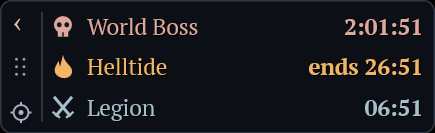
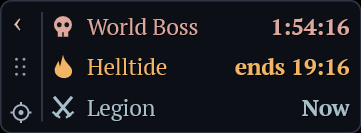
Allow compact panel widths without clipping text

diff --git a/tests/core_tests.cpp b/tests/core_tests.cpp
@@ -30,11 +30,12 @@ int main() {
  test("Retry After and duplicate suppression",[]{Coordinator c;c.activate(100,true);CHECK(c.takeDue(100,true)==7);CHECK(c.takeDue(100,true)==0);c.complete(Kind::Boss,100,false,600);CHECK(c.takeDue(699,true)==0);CHECK(c.takeDue(700,true)==1);});
  test("clock jump schedules one reconciliation",[]{Coordinator c;CHECK(!c.observeClock(100,1000));CHECK(!c.observeClock(101,2000));CHECK(c.observeClock(701,3000));CHECK(c.takeDue(701,true)==7);for(int i=0;i<3;++i)c.complete(Kind(i),701,true);CHECK(!c.observeClock(702,4000));CHECK(c.takeDue(702,true)==0);});
  test("clock rewind preserves elapsed retry wait",[]{Coordinator c;c.observeClock(10000,1000);c.activate(10000,true);c.takeDue(10000,true);for(int i=0;i<3;++i)c.complete(Kind(i),10000,false);CHECK(c.observeClock(6401,2000));CHECK(c.takeDue(6459,true)==0);CHECK(c.takeDue(6460,true)==7);});
- test("settings clamp and preserve positive placement",[]{auto p=normalize({100,1,-10,-100,-100,false,true});CHECK(p.font==22&&p.width>=350&&p.opacity==10&&p.x==0&&p.y==0&&p.registered);});
+ test("settings clamp and preserve positive placement",[]{auto p=normalize({100,1,-10,-100,-100,false,true});CHECK(p.font==22&&p.width>=300&&p.width<350&&p.opacity==10&&p.x==0&&p.y==0&&p.registered);});
  test("placement supports negative monitor origin",[]{auto b=place({-1920,0,1920,1080},270,82,1900,1060);CHECK(b.x==-270&&b.y==998&&b.width==270);});
  test("startup never recreates deleted entry",[]{CHECK(startupAction(false,false,false)==StartupAction::Create);CHECK(startupAction(true,false,false)==StartupAction::None);CHECK(startupAction(true,true,false)==StartupAction::Update);CHECK(startupAction(true,true,true)==StartupAction::None);});
- test("layout remains usable at large font and collapse",[]{auto p=normalize({22,270,85});auto l=layout(p,false);CHECK(l.width>=350&&l.height>=100);p.collapsed=true;CHECK(layout(p,false).width==28);CHECK(hitTest(p,false,10,10)==Hit::Collapse);});
+ test("layout remains usable at large font and collapse",[]{auto p=normalize({22,270,85});auto l=layout(p,false);CHECK(l.width>=300&&l.height>=100);p.collapsed=true;CHECK(layout(p,false).width==28);CHECK(hitTest(p,false,10,10)==Hit::Collapse);});
  test("hit testing only rail and settings controls",[]{Preferences p;CHECK(hitTest(p,false,100,40)==Hit::None);CHECK(hitTest(p,false,10,10)==Hit::Collapse);CHECK(hitTest(p,false,10,38)==Hit::Drag);CHECK(hitTest(p,false,10,70)==Hit::Settings);});
- test("larger text expands both label and countdown columns",[]{auto l=layout({22,270,85},false);CHECK(l.timeWidth>=175&&l.labelWidth>=120);CHECK(58+l.labelWidth+8+l.timeWidth+8<=l.width);});
+ test("larger text expands both label and countdown columns",[]{auto l=layout({22,270,85},false);CHECK(l.timeWidth>=125&&l.labelWidth>=110);CHECK(58+l.labelWidth+8+l.timeWidth+8<=l.width);});
+ test("width can shrink to compact text limits and still be widened",[]{auto p=normalize({15,1,75});CHECK(p.width>=235&&p.width<=245);CHECK(normalize({15,255,75}).width==255);CHECK(normalize({15,290,75}).width==290);CHECK(layout(p,true).width>=320);for(int size=11;size<=22;++size){auto l=layout({size,1,75},false);CHECK(l.labelWidth>0&&l.timeWidth>0);CHECK(58+l.labelWidth+8+l.timeWidth+8==l.width);}});
  std::cout<<passed<<" passed, "<<failed<<" failed\n";return failed?1:0;
 }

diff --git a/tests/render_tests.cpp b/tests/render_tests.cpp
@@ -23,15 +23,16 @@ int main(){
   font->Release();family->Release();collection->Release();format->Release();
  }
  for(int size=11;size<=22;++size){
-  auto p=normalize({size,270,10});auto l=layout(p,false);IDWriteTextFormat* f{};
+  auto p=normalize({size,1,10});auto l=layout(p,false);IDWriteTextFormat* f{};
   REQUIRE(SUCCEEDED(r.createTextFormat(static_cast<float>(size),true,&f)));
   f->SetWordWrapping(DWRITE_WORD_WRAPPING_NO_WRAP);
-  for(auto s:{L"ends ~55:00",L"~3:30:00",L"World Boss"}){
-   IDWriteTextFormat* actualFormat{};REQUIRE(SUCCEEDED(r.createTextFormat(static_cast<float>(size),s[0]!=L'W',&actualFormat)));
+  for(auto s:{L"ends ~55:00",L"ends ~88:88",L"ends ~00:00",L"~23:59:59",L"~Now",L"in ~05:00",L"World Boss",L"Helltide",L"Legion"}){
+   bool label=s[0]==L'W'||s[0]==L'H'||s[0]==L'L';
+   IDWriteTextFormat* actualFormat{};REQUIRE(SUCCEEDED(r.createTextFormat(static_cast<float>(size),!label,&actualFormat)));
    IDWriteTextLayout* text{};REQUIRE(SUCCEEDED(factory->CreateTextLayout(s,static_cast<UINT32>(wcslen(s)),actualFormat,1000,1000,&text)));
-   DWRITE_TEXT_METRICS m{};REQUIRE(SUCCEEDED(text->GetMetrics(&m)));int available=s[0]==L'W'?l.labelWidth:l.timeWidth;
-   if(m.widthIncludingTrailingWhitespace>available)std::wcerr<<L"Clipped at "<<size<<L" px: "<<s<<L" needs "<<m.widthIncludingTrailingWhitespace<<L", has "<<available<<'\n';
-   REQUIRE(m.widthIncludingTrailingWhitespace<=available);text->Release();actualFormat->Release();
+   DWRITE_TEXT_METRICS m{};REQUIRE(SUCCEEDED(text->GetMetrics(&m)));int available=label?l.labelWidth:l.timeWidth;
+   if(m.widthIncludingTrailingWhitespace+1>available)std::wcerr<<L"Clipped at "<<size<<L" px: "<<s<<L" needs "<<m.widthIncludingTrailingWhitespace+1<<L", has "<<available<<'\n';
+   REQUIRE(m.widthIncludingTrailingWhitespace+1<=available);text->Release();actualFormat->Release();
   }
   f->Release();std::array<Record,3> records{};
   REQUIRE(r.draw(hwnd,p,false,records,1790366400,1.f,{0,0,l.width,l.height},L"Offline estimates"));
@@ -47,5 +48,5 @@ int main(){
  auto backgroundAlpha=bytes[54+(15*270+140)*4+3];REQUIRE(maxAlpha>=250&&backgroundAlpha>=20&&backgroundAlpha<=32);
  std::filesystem::remove(path);
  REQUIRE(!IsWindowVisible(hwnd));REQUIRE(GetForegroundWindow()==foreground);DestroyWindow(hwnd);
- std::cout<<"PASS renderer: embedded PT Serif regular/bold without fallback, 12 font sizes, text metrics, transparent background with opaque text, resource recreation, hidden/no-activate\n";
+ std::cout<<"PASS renderer: embedded PT Serif regular/bold without fallback, compact minimum widths at 12 font sizes, text metrics, transparent background with opaque text, resource recreation, hidden/no-activate\n";
 }

diff --git a/src/core.cpp b/src/core.cpp
@@ -145,10 +145,12 @@ void Coordinator::complete(Kind k,Time now,bool success,Time retryAfter) {
 Time Coordinator::nextWake(Time now) const {
  Time due=Never;for(int i=0;i<3;++i){if(!requests[i].busy)due=std::min(due,requests[i].due);due=std::min(due,boundaries_[i]);}return due==Never?Never:std::max(now+1,due);
 }
-Preferences normalize(Preferences p) {p.font=std::clamp(p.font,11,22);p.width=std::clamp(p.width, std::max(240,p.font*17+35),560);p.opacity=std::clamp(p.opacity,10,100);p.x=std::clamp(p.x,0,16000);p.y=std::clamp(p.y,0,16000);return p;}
+// PT Serif needs at most 5 em for labels and 6 em for timer strings.
+// Keep 2 px of label breathing room, an 8 px column gap, and the existing rail/padding.
+Preferences normalize(Preferences p) {p.font=std::clamp(p.font,11,22);p.width=std::clamp(p.width,76+p.font*11,560);p.opacity=std::clamp(p.opacity,10,100);p.x=std::clamp(p.x,0,16000);p.y=std::clamp(p.y,0,16000);return p;}
 Box place(Box game,int width,int height,int x,int y) {width=std::max(1,std::min(width,game.width));height=std::max(1,std::min(height,game.height));return {game.x+std::clamp(x,0,game.width-width),game.y+std::clamp(y,0,game.height-height),width,height};}
 StartupAction startupAction(bool registered,bool exists,bool samePath) {if(!exists)return registered?StartupAction::None:StartupAction::Create;return samePath?StartupAction::None:StartupAction::Update;}
-Layout layout(Preferences p,bool settings) {p=normalize(p);int row=std::max(24,p.font+12);int width=settings?std::max(320,p.width):p.collapsed?28:p.width;int timeWidth=p.font*9;return {width,settings?246:row*3+8,28,row,timeWidth,width-58-timeWidth-16};}
+Layout layout(Preferences p,bool settings) {p=normalize(p);int row=std::max(24,p.font+12);int width=settings?std::max(320,p.width):p.collapsed?28:p.width;int timeWidth=p.font*6;return {width,settings?246:row*3+8,28,row,timeWidth,width-58-timeWidth-16};}
 Hit hitTest(Preferences p,bool settings,int x,int y) {
  auto l=layout(p,settings);if(x<0||y<0||x>=l.width||y>=l.height)return Hit::None;
  if(settings){if(y<32)return Hit::Back;for(int i=0;i<3;++i)if(y>=42+i*40&&y<74+i*40){if(x>=l.width-82&&x<l.width-48)return Hit(int(Hit::FontDown)+i*2);if(x>=l.width-42)return Hit(int(Hit::FontUp)+i*2);}return Hit::None;}

diff --git a/tests/platform_tests.cpp b/tests/platform_tests.cpp
@@ -13,7 +13,9 @@ int main() {
  auto copy=loadPreferences(p);
  REQUIRE(copy.font==18&&copy.width==410&&copy.opacity==43&&copy.x==72&&copy.y==88&&copy.collapsed&&copy.registered);
  std::ofstream(p)<<"[appearance]\nfont=999\nwidth=-1\nopacity=999\nx=-1\n";
- copy=loadPreferences(p);REQUIRE(copy.font==22&&copy.width>=350&&copy.opacity==100&&copy.x==0);
+ copy=loadPreferences(p);REQUIRE(copy.font==22&&copy.width>=300&&copy.width<350&&copy.opacity==100&&copy.x==0);
+ REQUIRE(savePreferences(p,{15,245,75,0,0,false,true}));
+ copy=loadPreferences(p);REQUIRE(copy.font==15&&copy.width==245);
  std::array<Record,3> records{};records[0]={1790370000,1790382600,0,1790369000,true,false};
  p=folder/L"events.ini";REQUIRE(saveCache(p,records));
  auto cache=loadCache(p,1790370100);

diff --git a/src/main.cpp b/src/main.cpp
@@ -130,7 +130,7 @@ class App {
    case Hit::Settings:settings=true;break;
    case Hit::Back:settings=false;break;
    case Hit::FontDown:--prefs.font;break;case Hit::FontUp:++prefs.font;break;
-   case Hit::WidthDown:prefs.width-=10;break;case Hit::WidthUp:prefs.width+=10;break;
+   case Hit::WidthDown:prefs.width-=5;break;case Hit::WidthUp:prefs.width+=5;break;
    case Hit::OpacityDown:prefs.opacity-=5;break;case Hit::OpacityUp:prefs.opacity+=5;break;
    case Hit::Drag:dragging=true;GetCursorPos(&dragStart);dragX=prefs.x;dragY=prefs.y;SetCapture(input);return;
    default:return;

diff --git a/docs/validation.md b/docs/validation.md
@@ -24,4 +24,6 @@ The revised executable is 1,678,336 bytes. Its offscreen smoke check passed with
 
 The subsequent event-name color refinement passed all local suites before deployment. Names and countdowns share one resolved row color, including the muted estimate state. The live rendered preview was visually checked for red/orange/blue-gray pairs; no drawing errors were reported. Settings remained unchanged and Diablo retained foreground during replacement.
 
+Compact-width refinement: 29 core tests, the preferences/cache suite, and the renderer suite passed before launch. Regression tests verify narrower valid widths remain configurable and persist, large text still expands its bounds, the settings view retains usable width, and columns retain an 8-pixel separation. DirectWrite checks every label and representative worst-case countdowns (including estimated Helltides and two-digit hours) at the actual minimum width for all 12 supported font sizes, with additional shadow clearance. The live panel was narrowed from 290 to 241 logical pixels at the user's 15-pixel font size; only width was changed in saved preferences.
+
 No mouse or keyboard input is synthesized during verification. Appearance state, placement, DPI changes and focus transitions were observed during natural user activity; the comfort of dragging, collapse, and actual gameplay click-through still require user confirmation. Monitor unplugging and Windows logon were not exercised. Pure startup policy tests cover preserving disablement/removal; actual Task Manager toggling has not been exercised. Request budget/cancellation logic is tested, but a hostile slow-chunk HTTP server is not part of the suite. A cancelled request may finish its current WinHTTP operation (up to the configured 4-second timeout) before exiting. No comparative performance claim against another overlay has been measured.

diff --git a/docs/design.md b/docs/design.md
@@ -16,6 +16,8 @@ The initial target is approximately 270 by 82 logical pixels at 13-pixel text. A
 
 The September 25 typography refinement uses embedded PT Serif regular for labels and bold for countdowns, with a subtle dark shadow, following the user's in-game screenshot. Fonts load privately from executable resources; no Windows font installation is required.
 
+The width control adjusts in 5-pixel increments. The lower bound reserves the embedded font's tested label/timer widths and an 8-pixel column gap, rather than the original oversized countdown column. At 15-pixel text it permits a 241-pixel panel, bringing the visible name-to-time gap to roughly half its previous size. The settings view keeps enough width for its own controls.
+
 ## Follow the game
 
 Diablo is configured for Windowed Fullscreen. The overlay identifies the game's foreground window and derives placement from that window, rather than a hardcoded monitor. Store the user's placement relative to the game window and clamp it to the available game area after moves, resizes, DPI changes, or monitor removal.

diff --git a/README.md b/README.md
@@ -14,6 +14,8 @@ Labels and timers use embedded PT Serif lettering with a subtle dark shadow to m
 
 Each event name matches its countdown color: red for World Boss, orange for Helltide, and blue-gray for Legion. Estimated/offline names and countdowns share the muted estimate color.
 
+Panel width adjusts in 5-pixel steps. Its minimum follows the text size, reserving enough room for all labels and countdowns plus an 8-pixel gap between their columns. At 15-pixel text the minimum panel width is 241 logical pixels; larger text raises that limit to avoid clipping.
+
 There are no sounds, popups, flashing alerts, maps, or build tools. `Now` means the scheduled event started within the last minute; it does not claim a boss is still alive in your instance. Helltide switches between `ends` and `in` at its known boundaries. `~` marks estimated/offline data; an em dash means no trustworthy timing anchor is available.
 
 ## Start with Windows or exit
